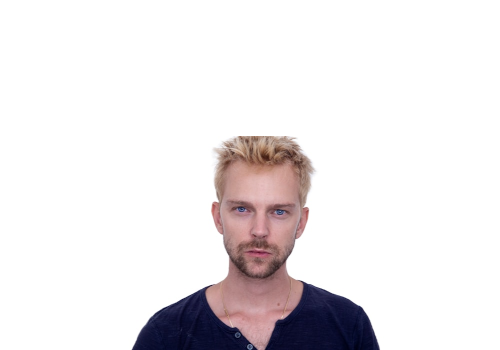
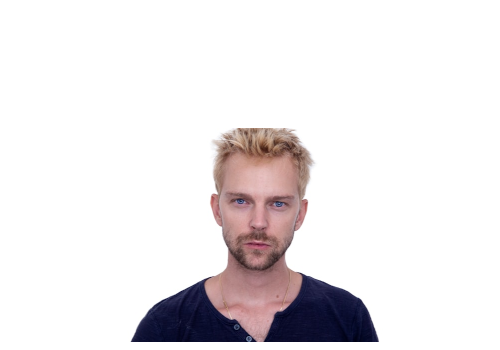
Draw arrows following the direction

Changed region(s): [[0.24, 0.3429, 0.78, 1.0]]

diff --git a/task2.js b/task2.js
@@ -189,7 +189,12 @@ class Task2 {
                 text(`cY: ${centroidImg2[1]}`, (width / 2) + (currentImage2.width / 2), currentImage2.height + 40);
 
                 let direction = this.cachedDirection;
-                text(`Direction: ${direction}`, currentImage1.width / 2, currentImage1.height + 60); 
+                let directionX = currentImage1.width / 2;
+                let directionY = currentImage1.height + 60;
+                text(`Direction: ${direction}`, directionX, directionY);
+                if (direction && direction !== "UNDEFINED") {
+                    this.drawDirectionArrow(direction, directionX, directionY + 20);
+                }
             }
 
             image(currentImage1, 0, 0);
@@ -445,5 +450,66 @@ class Task2 {
         } else if (diffX > 0 && diffY > 0) {
             return "DOWN-RIGHT";
         }
+        return "UNDEFINED";
+    }
+
+    drawDirectionArrow(direction, x, y) {
+        push();
+        stroke(255);
+        strokeWeight(3);
+        fill(255);
+        translate(x, y);
+        let len = 30;
+        let head = 8;
+
+        let dx = 0;
+        let dy = 0;
+        switch (direction) {
+            case "LEFT":
+                dx = -1;
+                break;
+            case "RIGHT":
+                dx = 1;
+                break;
+            case "UP":
+                dy = -1;
+                break;
+            case "DOWN":
+                dy = 1;
+                break;
+            case "UP-LEFT":
+                dx = -0.7;
+                dy = -0.7;
+                break;
+            case "UP-RIGHT":
+                dx = 0.7;
+                dy = -0.7;
+                break;
+            case "DOWN-LEFT":
+                dx = -0.7;
+                dy = 0.7;
+                break;
+            case "DOWN-RIGHT":
+                dx = 0.7;
+                dy = 0.7;
+                break;
+        }
+
+        let endX = dx * len;
+        let endY = dy * len;
+        line(0, 0, endX, endY);
+
+        let angle = atan2(dy, dx);
+        if (dx !== 0 || dy !== 0) {
+            let arrowX = endX;
+            let arrowY = endY;
+            push();
+            translate(arrowX, arrowY);
+            rotate(angle);
+            triangle(0, 0, -head, head / 2, -head, -head / 2);
+            pop();
+        }
+
+        pop();
     }
 }
